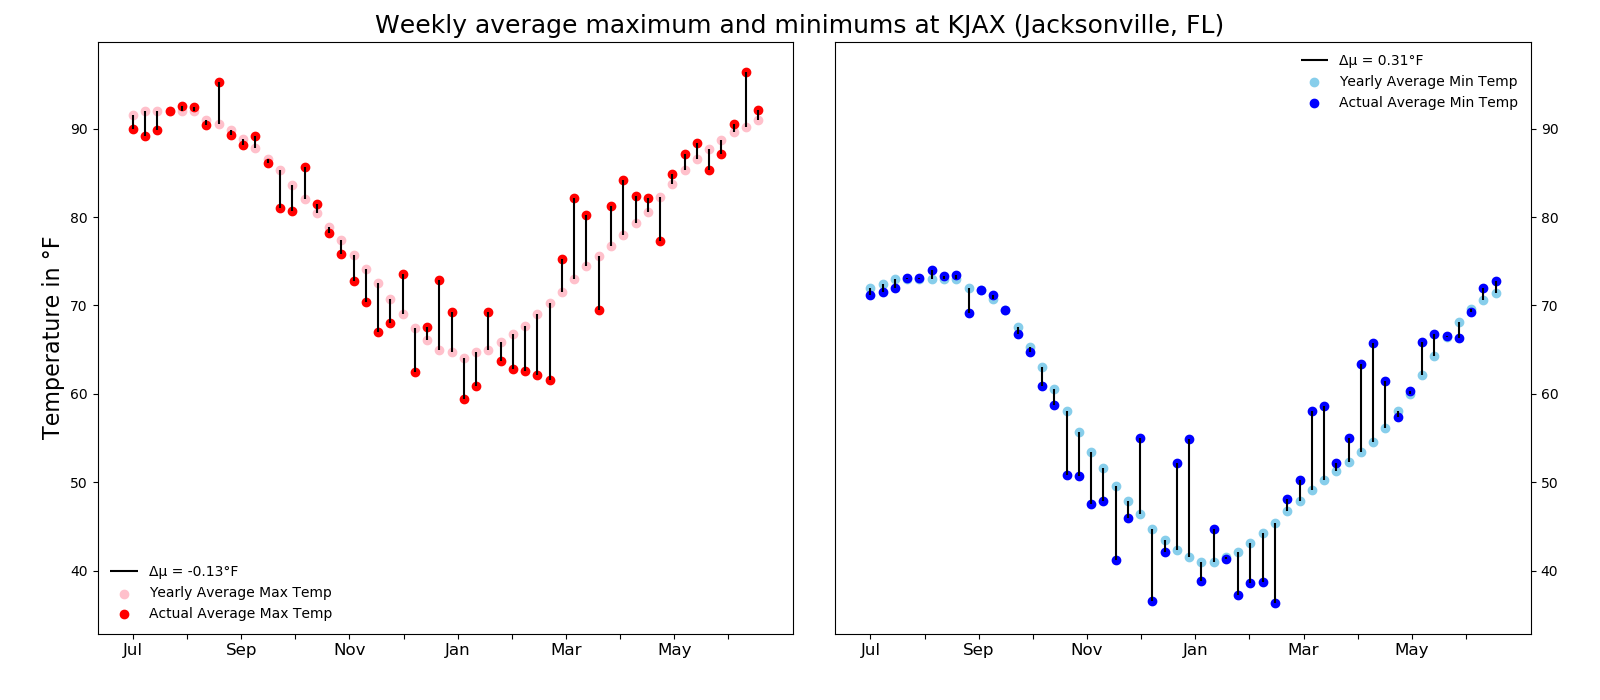
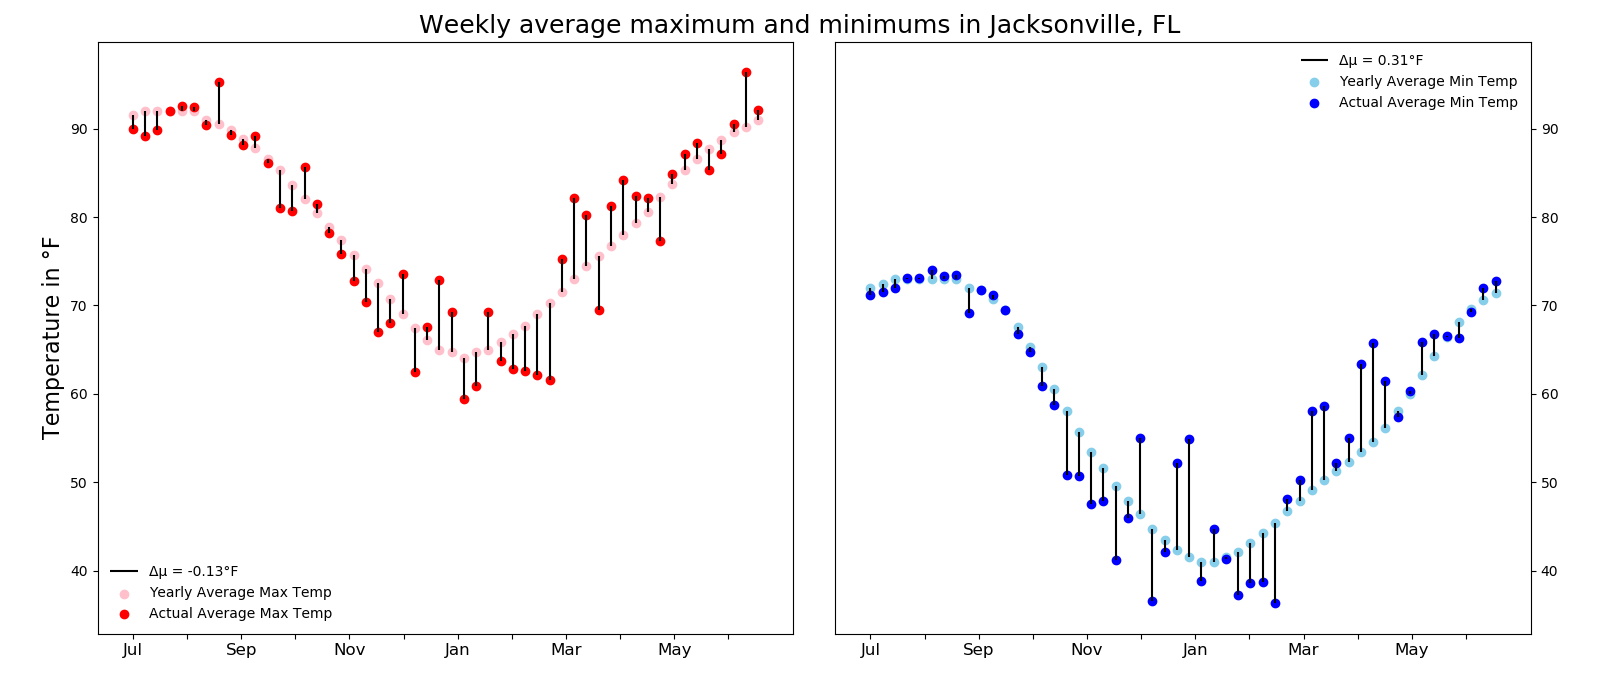
updated graphs to show city names instead of codes

Changed region(s): [[0.2188, 0.0, 0.75, 0.06]]

diff --git a/exploratory.py b/exploratory.py
@@ -116,8 +116,8 @@ class weather_examiner(object):
         ax[0].set_ylabel('Temperature in °F', fontsize=16)
 
         # Put a title in the center of the two graphs
-        plt.suptitle(f'Weekly average maximum and minimums at '
-                     f'{location} ({name})',
+        plt.suptitle(f'Weekly average maximum and minimums in'
+                     f' {name}',
                      fontsize=18)
         # Add ticks and labels to left side
         ax[1].tick_params(labelright=True, right=True, left=False)
@@ -174,6 +174,7 @@ class weather_examiner(object):
 
         plt.xlabel('Location', fontsize=16)
         plt.ylabel('Cumulative Precipitation in Inches', fontsize=16)
+        plt.xticks(np.arange(10), [self.locations[i] for i in pivot_df.index])
         plt.title('Total Precipitation Across all Locations', fontsize=18)
         plt.tight_layout()
 
@@ -218,8 +219,9 @@ class weather_examiner(object):
         plt.bar(ind+width, cold_records, width=width, label='Record Low',
                 color='blue')  # 18 total
         # place xticks with reordered location names
-        plt.xticks(ind + width / 3, [self.locs[i] for i in sorted_idx],
-                   fontsize=10, rotation=40)
+        plt.xticks(ind + width / 3,
+                   [self.locations[self.locs[i]] for i in sorted_idx],
+                   fontsize=10, rotation=90)
         plt.yticks(np.linspace(4, 20, 5))
         # Set labels and titles
         plt.ylabel('Number of Days', fontsize=14)
@@ -239,14 +241,15 @@ class weather_examiner(object):
         drought = [self.longest_drought(self.load_and_transform(place))
                    for place in self.locs]
         # Load into a df and sort by number of days
-        df = pd.DataFrame({'locations': self.locs, 'drought': drought})
+        df = pd.DataFrame({'locations': [self.locations[i] for i in self.locs],
+                          'drought': drought})
         df.sort_values('drought', inplace=True)
         # Create plot
         df.plot(kind='bar', y='drought', x='locations',
                 color='skyblue', legend=None)
         plt.ylabel('Days', fontsize=14)
         plt.xlabel('Location', fontsize=14)
-        plt.xticks(rotation=40)
+        plt.xticks(rotation=90)
         plt.title('Number of Consecutive Days with no Significant Rainfall',
                   fontsize=16)
         plt.tight_layout()
@@ -260,8 +263,9 @@ class weather_examiner(object):
 if __name__ == "__main__":
     weather_ex = weather_examiner()
     # Bools to control which graphs are produced and if they are saved
-    make_temp_graphs = True
-    graph_rain = False
+    make_temp_graphs = False
+    only_one = False
+    graph_rain = True
     graph_record = False
     graph_consecutive = False
     save = True
@@ -269,6 +273,8 @@ if __name__ == "__main__":
     if make_temp_graphs:
         for code, name in weather_ex.locations.items():
             weather_ex.avg_max_min_graph(code, name, save=save)
+            if only_one:
+                break
 
     if graph_rain:
         weather_ex.graph_rainfall(save=save)
